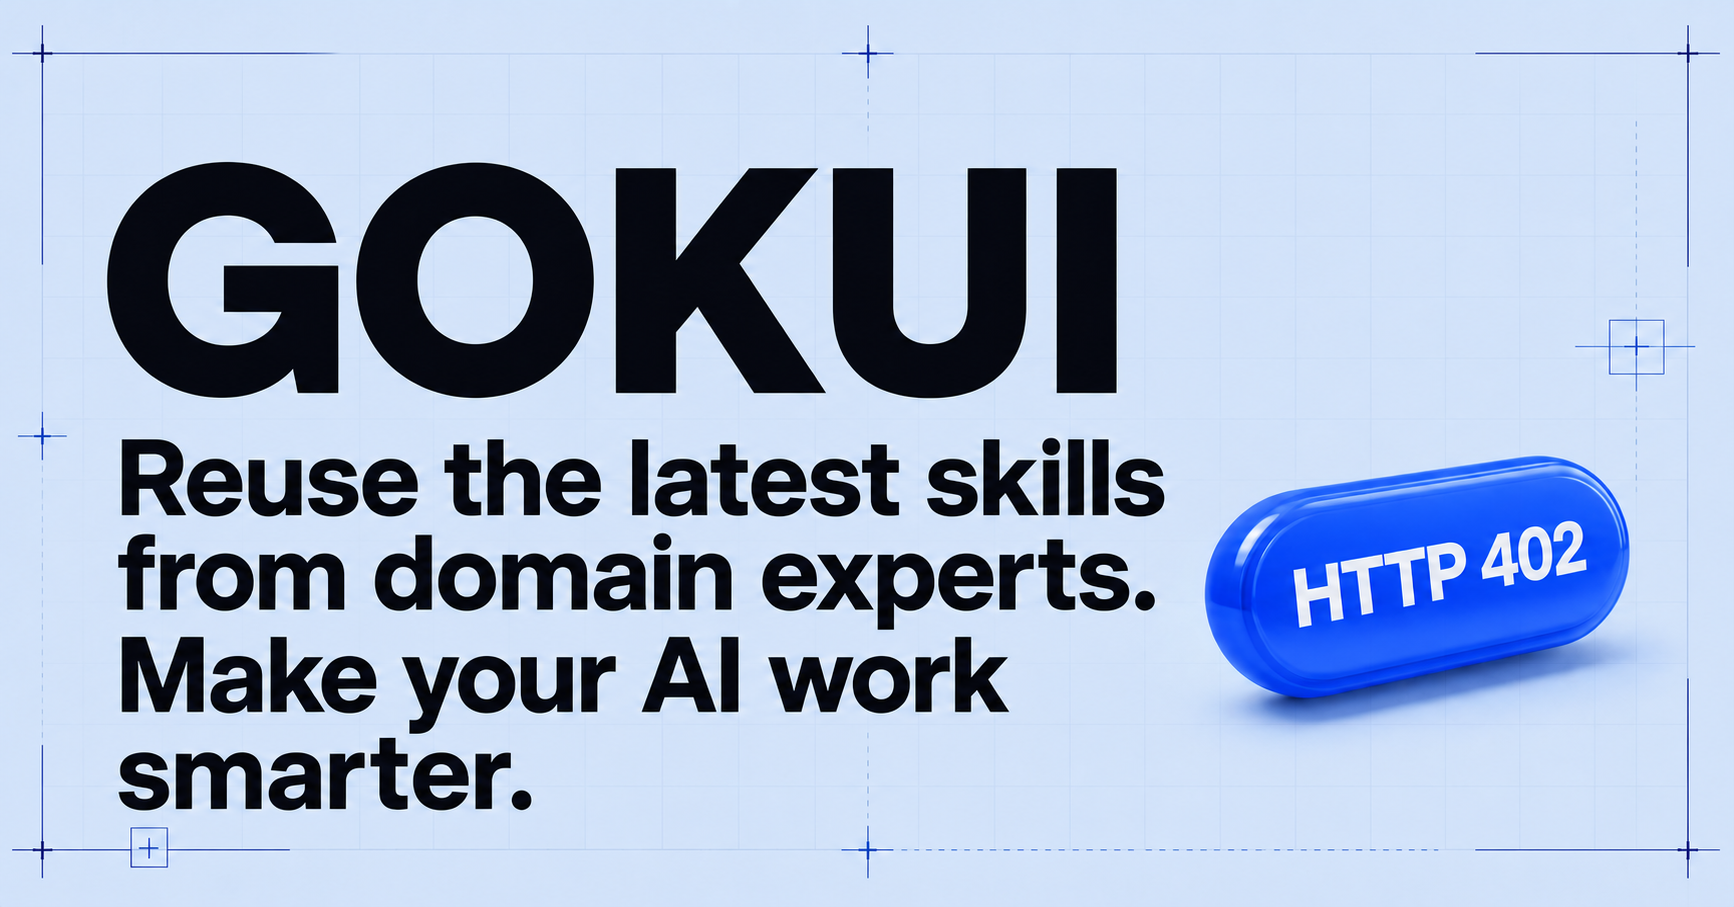
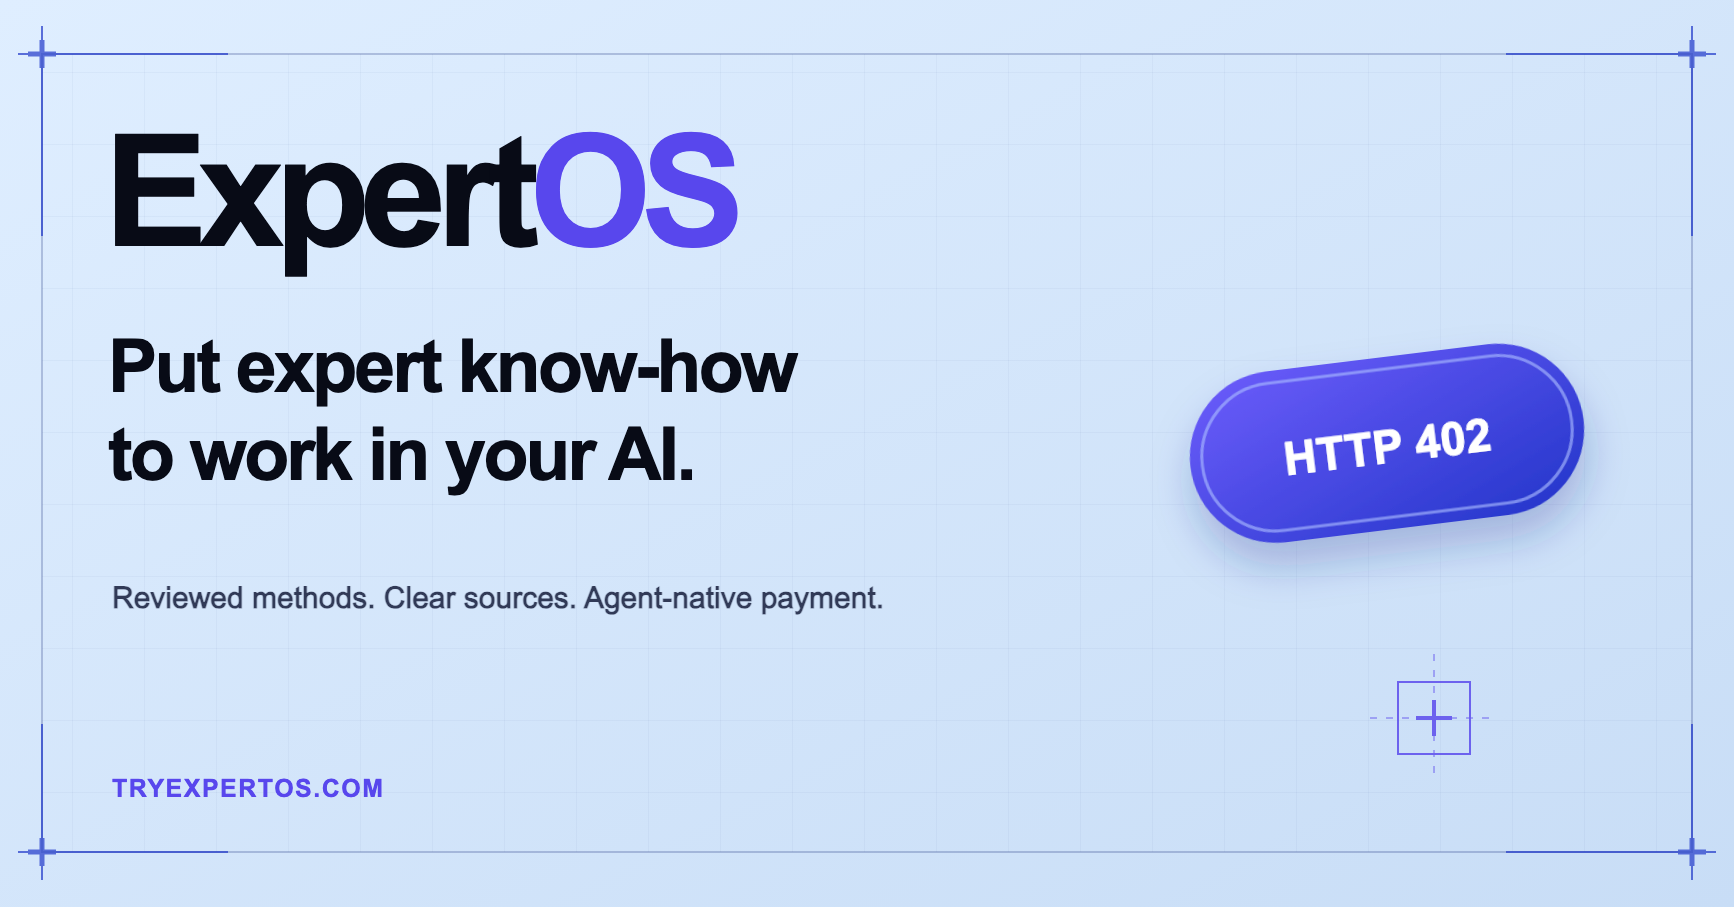
restore ExpertOS public branding

diff --git a/worker/src/utils.ts b/worker/src/utils.ts
@@ -64,29 +64,39 @@ export class BodyError extends Error {
   }
 }
 
+function withPublicBrand(value: string) {
+  return value.replaceAll("GOKUI Labs", "ExpertOS Labs").replaceAll("GOKUI", "ExpertOS");
+}
+
 export function publicSkill(skill: import("./types").SkillRecord, origin: string) {
-  const publisher = skill.publisher_name === "ExpertOS Labs" ? "GOKUI Labs" : skill.publisher_name;
+  const publisher = withPublicBrand(skill.publisher_name);
   const deliveryType = skill.delivery_type === "paid_api" ? "paid_api" : "external_source";
-  const listingKind = skill.listing_kind || (publisher === "GOKUI Labs" ? "platform" : "publisher");
+  const listingKind = skill.listing_kind || (["GOKUI Labs", "ExpertOS Labs"].includes(skill.publisher_name) ? "platform" : "publisher");
   const invokeUrl = deliveryType === "paid_api" ? `${origin}/api/v1/skills/${skill.slug}/invoke` : null;
   const input = deliveryType === "paid_api" ? skillInputContract(skill) : null;
+  const localizations = parseJson<Record<string, { title?: string; description?: string; category?: string; riskSummary?: string }>>(
+    skill.localizations_json || "{}",
+    {},
+  );
+  for (const localization of Object.values(localizations)) {
+    for (const key of ["title", "description", "category", "riskSummary"] as const) {
+      if (localization[key]) localization[key] = withPublicBrand(localization[key]);
+    }
+  }
   return {
     id: skill.id,
     slug: skill.slug,
-    title: skill.title,
-    description: skill.description,
+    title: withPublicBrand(skill.title),
+    description: withPublicBrand(skill.description),
     category: skill.category,
     tags: parseJson<string[]>(skill.tags_json, []),
     searchAliases: parseJson<string[]>(skill.search_aliases_json || "[]", []),
-    localizations: parseJson<Record<string, { title?: string; description?: string; category?: string; riskSummary?: string }>>(
-      skill.localizations_json || "{}",
-      {},
-    ),
+    localizations,
     version: skill.version,
     license: skill.license,
     publisher,
     price: { amount: skill.price_usd, currency: "USDC", network: "Base" },
-    risk: { level: skill.risk_level, summary: skill.risk_summary },
+    risk: { level: skill.risk_level, summary: withPublicBrand(skill.risk_summary) },
     invokes: skill.invokes,
     invokeUrl,
     inputSchema: input?.schema || null,
@@ -97,7 +107,7 @@ export function publicSkill(skill: import("./types").SkillRecord, origin: string
     },
     provenance: {
       listingKind,
-      curatedBy: listingKind === "curated" ? "GOKUI" : null,
+      curatedBy: listingKind === "curated" ? "ExpertOS" : null,
       publisherVerified: Boolean(skill.publisher_verified),
       source: skill.source_url
         ? {

diff --git a/web/app/layout.tsx b/web/app/layout.tsx
@@ -20,13 +20,13 @@ const geistMono = Geist_Mono({
 
 export const metadata: Metadata = {
   metadataBase: new URL("https://tryexpertos.com"),
-  title: "GOKUI — Expert Skills for AI Agents",
+  title: "ExpertOS — Expert Skills for AI Agents",
   description:
-    "GOKUI is an Agent Skill marketplace for reviewed task methods: browse pinned sources, submit SKILL.md, and let Agents discover and pay for hosted APIs.",
+    "ExpertOS is an Agent Skill marketplace for reviewed task methods: browse pinned sources, submit SKILL.md, and let Agents discover and pay for hosted APIs.",
   alternates: { canonical: "/" },
   robots: { index: true, follow: true },
   openGraph: {
-    title: "GOKUI — Expert Skills for AI Agents",
+    title: "ExpertOS — Expert Skills for AI Agents",
     description: "Reuse reviewed Skills shaped by real practice, so your AI can handle each job with a clearer method and fewer guesses.",
     type: "website",
     url: "/",
@@ -34,12 +34,12 @@ export const metadata: Metadata = {
       url: "/og.png",
       width: 1734,
       height: 907,
-      alt: "GOKUI — Put expert know-how to work in your AI.",
+      alt: "ExpertOS — Put expert know-how to work in your AI.",
     }],
   },
   twitter: {
     card: "summary_large_image",
-    title: "GOKUI — Expert Skills for AI Agents",
+    title: "ExpertOS — Expert Skills for AI Agents",
     description: "Reuse reviewed Skills shaped by real practice, so your AI can handle each job with a clearer method and fewer guesses.",
     images: ["/og.png"],
   },
@@ -57,7 +57,7 @@ export default function RootLayout({
       className={`${geistSans.variable} ${geistMono.variable} h-full antialiased`}
     >
       <body className="min-h-full flex flex-col">
-        <Script id="gokui-locale-bootstrap" strategy="beforeInteractive" dangerouslySetInnerHTML={{ __html: localeBootstrap }} />
+        <Script id="expertos-locale-bootstrap" strategy="beforeInteractive" dangerouslySetInnerHTML={{ __html: localeBootstrap }} />
         <I18nProvider>
           <SkipLink />
           <ChartPaper />

diff --git a/web/app/skill/page.tsx b/web/app/skill/page.tsx
@@ -103,7 +103,7 @@ Skill：${display.title}
 固定 commit：${source.commit || "未提供"}
 仓库路径：${source.path || "未提供"}
 许可证：${skill.license}
-GOKUI 风险提示：${display.riskSummary}
+ExpertOS 风险提示：${display.riskSummary}
 
 请按以下顺序操作：
 1. 先读取固定 commit 下的完整文件、依赖、脚本和许可证，不要改用最新版或其他分支。
@@ -120,7 +120,7 @@ Pinned source: ${source.url}
 Pinned commit: ${source.commit || "not provided"}
 Repository path: ${source.path || "not provided"}
 License: ${skill.license}
-GOKUI risk note: ${display.riskSummary}
+ExpertOS risk note: ${display.riskSummary}
 
 Follow this order:
 1. Inspect the complete files, dependencies, scripts, and license at the pinned commit. Do not switch to the latest branch or another version.
@@ -132,7 +132,7 @@ Follow this order:
 
 If this client cannot install Skills, the pinned files are incomplete, the license is unclear, or the risk cannot be assessed, stop and explain why. Do not guess or bypass the limitation.`) : "";
   const curl = skill.invokeUrl ? `curl -i -X POST '${skill.invokeUrl}' \\
-  -H 'Authorization: Bearer $GOKUI_API_KEY' \\
+  -H 'Authorization: Bearer $EXPERTOS_API_KEY' \\
   -H 'Idempotency-Key: your-unique-request-id' \\
   -H 'Content-Type: application/json' \\
   -d '${JSON.stringify(skill.exampleInput || {})}'` : "";
@@ -163,7 +163,7 @@ If this client cannot install Skills, the pinned files are incomplete, the licen
     <main className="mx-auto max-w-[1100px] px-6 pb-10 w-full">
       <section className="pt-10 pb-8">
         <Link href="/store" className="meta text-[10px] text-violet">{t("skill.back")}</Link>
-        <div className="kicker mt-6 mb-3">{display.category} · {versionLabel}{isCurated ? ` · ${isZh ? "GOKUI 社区精选" : "GOKUI community pick"}` : ""}</div>
+        <div className="kicker mt-6 mb-3">{display.category} · {versionLabel}{isCurated ? ` · ${isZh ? "ExpertOS 社区精选" : "ExpertOS community pick"}` : ""}</div>
         <h1 className="display-hero text-4xl md:text-6xl">{display.title}</h1>
         <p className="mt-5 text-lg leading-relaxed max-w-3xl">{display.description}</p>
       </section>
@@ -189,7 +189,7 @@ If this client cannot install Skills, the pinned files are incomplete, the licen
                 <summary className="cursor-pointer text-sm font-semibold">{isZh ? "预览给 AI 的安装指令" : "Preview the AI install handoff"}</summary>
                 <pre className="code-block whitespace-pre-wrap max-h-96 overflow-auto mt-4">{installPrompt}</pre>
               </details>
-              <p className="text-xs text-dim leading-relaxed mt-5">{isZh ? "这是 GOKUI 主动筛选的索引，不是原作者提交或合作入驻。安装前仍需在上游仓库核对完整文件、依赖和许可证。" : "This is a GOKUI-curated index, not an author submission or partnership. You must still verify the complete files, dependencies, and license in the upstream repository before installation."}</p>
+              <p className="text-xs text-dim leading-relaxed mt-5">{isZh ? "这是 ExpertOS 主动筛选的索引，不是原作者提交或合作入驻。安装前仍需在上游仓库核对完整文件、依赖和许可证。" : "This is an ExpertOS-curated index, not an author submission or partnership. You must still verify the complete files, dependencies, and license in the upstream repository before installation."}</p>
             </>
           ) : (
             <>

diff --git a/web/app/globals.css b/web/app/globals.css
@@ -131,6 +131,15 @@ body {
   letter-spacing: 0.08em;
   color: var(--foreground);
 }
+.brand-wordmark {
+  display: inline-flex;
+  align-items: baseline;
+  font-size: clamp(17px, 1.5vw, 19px);
+  font-weight: 820;
+  letter-spacing: -0.065em;
+  line-height: 1;
+  white-space: nowrap;
+}
 .nav-scroll {
   scrollbar-width: none;
 }

diff --git a/web/app/store/page.tsx b/web/app/store/page.tsx
@@ -68,7 +68,7 @@ export default function Store() {
             <div className="meta text-[9px] text-dim mt-1">{skill.publisher} · {versionLabel}</div>
           </div>
           <div className="meta text-[10px] text-right">
-            <span className="text-violet">{curated ? (isZh ? "GOKUI 精选" : "GOKUI curated") : "X402"}</span><br />
+            <span className="text-violet">{curated ? (isZh ? "ExpertOS 精选" : "ExpertOS curated") : "X402"}</span><br />
             {curated ? (sourceCommit ? `commit ${sourceCommit}` : (isZh ? "固定上游版本" : "pinned upstream")) : `${skill.invokes} ${t("store.settled")}`}
           </div>
         </div>
@@ -91,12 +91,12 @@ export default function Store() {
           <div className="flex flex-wrap items-end justify-between gap-5 mb-5">
             <div>
               <div className="kicker mb-2">{isZh ? "固定版本 · 免费安装" : "Pinned versions · free to install"}</div>
-              <h2 id="curated-skills-title" className="display-hero text-3xl md:text-5xl">{isZh ? "GOKUI 社区精选" : "GOKUI community picks"}</h2>
+              <h2 id="curated-skills-title" className="display-hero text-3xl md:text-5xl">{isZh ? "ExpertOS 社区精选" : "ExpertOS community picks"}</h2>
             </div>
             <p className="max-w-xl text-sm text-dim leading-relaxed">
               {isZh
-                ? "这些 Skill 由 GOKUI 从可信上游筛选并固定到已审版本。原作者没有在 GOKUI 入驻；我们不代售内容。打开后可复制一段安全交接指令，让你的 AI 检查并安装。"
-                : "GOKUI selected these skills from trusted upstream repositories and pinned the reviewed versions. Their authors have not claimed these listings and GOKUI does not resell them. Open one to copy a guarded handoff for your AI to inspect and install."}
+                ? "这些 Skill 由 ExpertOS 从可信上游筛选并固定到已审版本。原作者没有在 ExpertOS 入驻；我们不代售内容。打开后可复制一段安全交接指令，让你的 AI 检查并安装。"
+                : "ExpertOS selected these skills from trusted upstream repositories and pinned the reviewed versions. Their authors have not claimed these listings and ExpertOS does not resell them. Open one to copy a guarded handoff for your AI to inspect and install."}
             </p>
           </div>
           <div className="grid md:grid-cols-2 lg:grid-cols-3 gap-4">{curatedSkills.map(card)}</div>

diff --git a/web/components/nav.tsx b/web/components/nav.tsx
@@ -35,9 +35,9 @@ export function Nav() {
   const { t } = useI18n();
   return (
     <header className="sticky top-0 z-40 bg-background/90 border-b border-line backdrop-blur-sm">
-      <div className="mx-auto max-w-[1360px] px-4 md:px-6 min-h-14 flex flex-wrap md:flex-nowrap items-center gap-x-3 md:gap-x-4 gap-y-0">
-        <Link href="/" className="font-extrabold tracking-tight text-[17px] shrink-0">
-          GOKUI<span className="text-violet">.</span>
+      <div className="mx-auto max-w-[1360px] px-4 md:px-6 pt-2 md:pt-0 min-h-14 flex flex-wrap md:flex-nowrap items-center gap-x-3 md:gap-x-4 gap-y-0">
+        <Link href="/" className="brand-wordmark shrink-0" aria-label="ExpertOS home">
+          <span>Expert</span><span className="text-violet">OS</span>
         </Link>
         <nav className="nav-scroll order-3 md:order-none basis-full md:basis-auto w-full md:w-auto min-w-0 flex-none md:flex-1 flex items-center justify-between md:justify-start gap-3 md:gap-5 meta text-[10px] md:text-[11.5px] overflow-x-auto py-2 md:py-4" aria-label={t("nav.primary")}>
           {NAV.map((item) => {
@@ -68,7 +68,7 @@ export function Footer() {
   return (
     <footer className="border-t border-line mt-14">
       <div className="mx-auto max-w-[1360px] px-6 py-5 flex flex-wrap items-center justify-between gap-3 meta text-[10.5px] text-dim">
-        <span>GOKUI © 2026 · {t("footer.marketplace")}</span>
+        <span>ExpertOS © 2026 · {t("footer.marketplace")}</span>
         <nav aria-label={t("footer.legalNavigation")} className="flex flex-wrap items-center gap-4">
           <Link href="/wallet" className="underline decoration-transparent underline-offset-4 hover:text-violet hover:decoration-violet">{t("footer.stack")}</Link>
           <Link href="/privacy" className="underline decoration-transparent underline-offset-4 hover:text-violet hover:decoration-violet">{t("footer.privacy")}</Link>

diff --git a/web/app/console/layout.tsx b/web/app/console/layout.tsx
@@ -1,11 +1,11 @@
 import type { Metadata } from "next";
 
 export const metadata: Metadata = {
-  title: "Payment Activity — GOKUI",
-  description: "Inspect settled GOKUI skill invocations and follow their public Base transaction receipts.",
+  title: "Payment Activity — ExpertOS",
+  description: "Inspect settled ExpertOS skill invocations and follow their public Base transaction receipts.",
   alternates: { canonical: "/console/" },
   robots: { index: false, follow: true },
-  openGraph: { title: "Payment Activity — GOKUI", url: "/console/" },
+  openGraph: { title: "Payment Activity — ExpertOS", url: "/console/" },
 };
 
 export default function ConsoleLayout({ children }: { children: React.ReactNode }) { return children; }

diff --git a/web/app/privacy/layout.tsx b/web/app/privacy/layout.tsx
@@ -1,10 +1,10 @@
 import type { Metadata } from "next";
 
 export const metadata: Metadata = {
-  title: "Privacy Notice — GOKUI",
-  description: "What the current GOKUI beta stores, exposes, and uses when you submit skills, connect agents, or invoke paid endpoints.",
+  title: "Privacy Notice — ExpertOS",
+  description: "What the current ExpertOS beta stores, exposes, and uses when you submit skills, connect agents, or invoke paid endpoints.",
   alternates: { canonical: "/privacy/" },
-  openGraph: { title: "Privacy Notice — GOKUI", url: "/privacy/" },
+  openGraph: { title: "Privacy Notice — ExpertOS", url: "/privacy/" },
 };
 
 export default function PrivacyLayout({ children }: { children: React.ReactNode }) { return children; }

diff --git a/web/app/submit/page.tsx b/web/app/submit/page.tsx
@@ -116,7 +116,7 @@ async function copyText(value: string) {
 }
 
 function aiPrompt(locale: string, language: string) {
-  if (locale === "zh-CN") return `任务：帮我创建一份可提交到 GOKUI 的 Agent 技能文件（SKILL.md）。
+  if (locale === "zh-CN") return `任务：帮我创建一份可提交到 ExpertOS 的 Agent 技能文件（SKILL.md）。
 
 我不了解技术格式。请一次只问我一个简单问题，把我的经验或工作流程整理成一个可复用的 Agent 技能。
 
@@ -144,7 +144,7 @@ metadata:
 
 正文至少包含：适用范围、前置条件、工作流程、输入与输出、安全与限制、失败处理、示例。不要安装或执行这个技能，只负责和我一起完成文件。`;
 
-  return `Task: Help me create an agent skill file (SKILL.md) for submission to GOKUI.
+  return `Task: Help me create an agent skill file (SKILL.md) for submission to ExpertOS.
 
 I do not know the technical format. Interview me with one simple question at a time, then turn my experience or workflow into a reusable agent skill. Conduct the interview and write the skill instructions in ${language}.
 
@@ -313,7 +313,7 @@ export default function SubmitSkill() {
           <p className="mt-3">{t("common.status")}: <span className="chip bg-amber/10 text-amber border border-amber/30">{submissionStatus}</span></p>
           <dl className="grid grid-cols-1 sm:grid-cols-[110px_1fr] gap-y-2 sm:gap-y-3 mt-6 text-sm"><dt className="text-dim">{t("submit.id")}</dt><dd className="mono break-all">{receipt.submission.id}</dd><dt className="text-dim">{t("submit.slug")}</dt><dd className="mono break-all">{receipt.submission.slug}</dd><dt className="text-dim">{t("submit.risk")}</dt><dd>{riskLabel}</dd><dt className="text-dim">{t("submit.warnings")}</dt><dd>{receipt.submission.scan.warnings.length ? receipt.submission.scan.warnings.map((warning) => scanWarningText(warning, locale === "zh-CN")).join(" · ") : t("submit.noWarnings")}</dd>{receipt.submission.scan.reviewReason && <><dt className="text-dim">{locale === "zh-CN" ? "审核说明" : "Review note"}</dt><dd>{receipt.submission.scan.reviewReason}</dd></>}{receipt.submission.updatedAt && <><dt className="text-dim">{locale === "zh-CN" ? "最后更新" : "Last updated"}</dt><dd>{new Date(receipt.submission.updatedAt).toLocaleString(locale)}</dd></>}</dl>
           {recoveryUrl && <div className="mt-6 border-t border-line pt-5"><p className="text-sm font-bold">{locale === "zh-CN" ? "保存这条私密恢复链接" : "Save this private recovery link"}</p><p className="text-xs text-dim leading-relaxed mt-2">{locale === "zh-CN" ? "以后打开它即可查看审核状态，无需登录。链接里含有私密凭证；不要公开、不要贴进群聊或工单。" : "Open it later to check review status without an account. It contains a private token; do not publish it or paste it into shared chats or tickets."}</p><button type="button" className="btn-ink mt-4" onClick={copyRecoveryLink}>{recoveryCopied ? (locale === "zh-CN" ? "已复制恢复链接" : "Recovery link copied") : (locale === "zh-CN" ? "复制私密恢复链接" : "Copy private recovery link")}</button></div>}
-          <p className="text-xs text-dim mt-6">{locale === "zh-CN" ? "服务器只保存恢复凭证的哈希。GOKUI 无法替你找回丢失的原始链接。" : "The server stores only a hash of the recovery token. GOKUI cannot reconstruct a lost original link."}</p>
+          <p className="text-xs text-dim mt-6">{locale === "zh-CN" ? "服务器只保存恢复凭证的哈希。ExpertOS 无法替你找回丢失的原始链接。" : "The server stores only a hash of the recovery token. ExpertOS cannot reconstruct a lost original link."}</p>
           <button type="button" className="btn-outline mt-5" onClick={clearReceipt}>{t("submit.another")}</button>
         </div>
       ) : (

diff --git a/web/app/terms/layout.tsx b/web/app/terms/layout.tsx
@@ -1,10 +1,10 @@
 import type { Metadata } from "next";
 
 export const metadata: Metadata = {
-  title: "Beta Terms — GOKUI",
-  description: "Operating rules and current limits for publishing skills, connecting agents, and using paid GOKUI endpoints.",
+  title: "Beta Terms — ExpertOS",
+  description: "Operating rules and current limits for publishing skills, connecting agents, and using paid ExpertOS endpoints.",
   alternates: { canonical: "/terms/" },
-  openGraph: { title: "Beta Terms — GOKUI", url: "/terms/" },
+  openGraph: { title: "Beta Terms — ExpertOS", url: "/terms/" },
 };
 
 export default function TermsLayout({ children }: { children: React.ReactNode }) { return children; }

diff --git a/web/app/wallet/layout.tsx b/web/app/wallet/layout.tsx
@@ -1,10 +1,10 @@
 import type { Metadata } from "next";
 
 export const metadata: Metadata = {
-  title: "x402 Agent Payments — GOKUI",
-  description: "See how GOKUI agent calls disclose price, settle USDC through x402, and record payment evidence.",
+  title: "x402 Agent Payments — ExpertOS",
+  description: "See how ExpertOS agent calls disclose price, settle USDC through x402, and record payment evidence.",
   alternates: { canonical: "/wallet/" },
-  openGraph: { title: "x402 Agent Payments — GOKUI", url: "/wallet/" },
+  openGraph: { title: "x402 Agent Payments — ExpertOS", url: "/wallet/" },
 };
 
 export default function WalletLayout({ children }: { children: React.ReactNode }) { return children; }

diff --git a/worker/src/index.ts b/worker/src/index.ts
@@ -36,7 +36,7 @@ app.get("/api/health", (c) => c.json({ ok: true, service: "gokui-marketplace", e
 app.get("/.well-known/agent-skills.json", (c) => {
   const origin = new URL(c.req.url).origin;
   return c.json({
-    name: "GOKUI Agent Skill Marketplace",
+    name: "ExpertOS Agent Skill Marketplace",
     version: "1.0.0",
     protocols: ["REST", "x402-v2"],
     access: {
@@ -55,7 +55,7 @@ app.get("/.well-known/agent-skills.json", (c) => {
     },
     catalog: {
       deliveryTypes: ["paid_api", "external_source"],
-      disclosure: "Paid APIs are called and paid by agents through x402; the website does not connect a wallet. Community-curated source packages provide a guarded AI-install handoff pinned to an upstream version and are not sold by GOKUI.",
+      disclosure: "Paid APIs are called and paid by agents through x402; the website does not connect a wallet. Community-curated source packages provide a guarded AI-install handoff pinned to an upstream version and are not sold by ExpertOS.",
     },
     privacy: "Plaintext paid-call input is not stored. Results are retained for up to 24 hours; request hashes and minimal payment receipts remain for security and reconciliation.",
     safety: "Automated checks reduce risk but are not an endorsement. Review third-party skills and permissions before use.",
@@ -323,7 +323,7 @@ app.post(
     ).bind(c.req.param("slug")).first<SkillRecord>();
     if (!skill) return jsonError(c, 404, "skill_not_found", "No approved skill uses that slug.");
     if (skill.delivery_type !== "paid_api") {
-      return jsonError(c, 409, "source_only_skill", "This community-curated listing is installed from its pinned upstream source; it is not a paid GOKUI endpoint.", {
+      return jsonError(c, 409, "source_only_skill", "This community-curated listing is installed from its pinned upstream source; it is not a paid ExpertOS endpoint.", {
         sourceUrl: skill.source_url,
         sourceCommit: skill.source_commit,
       });